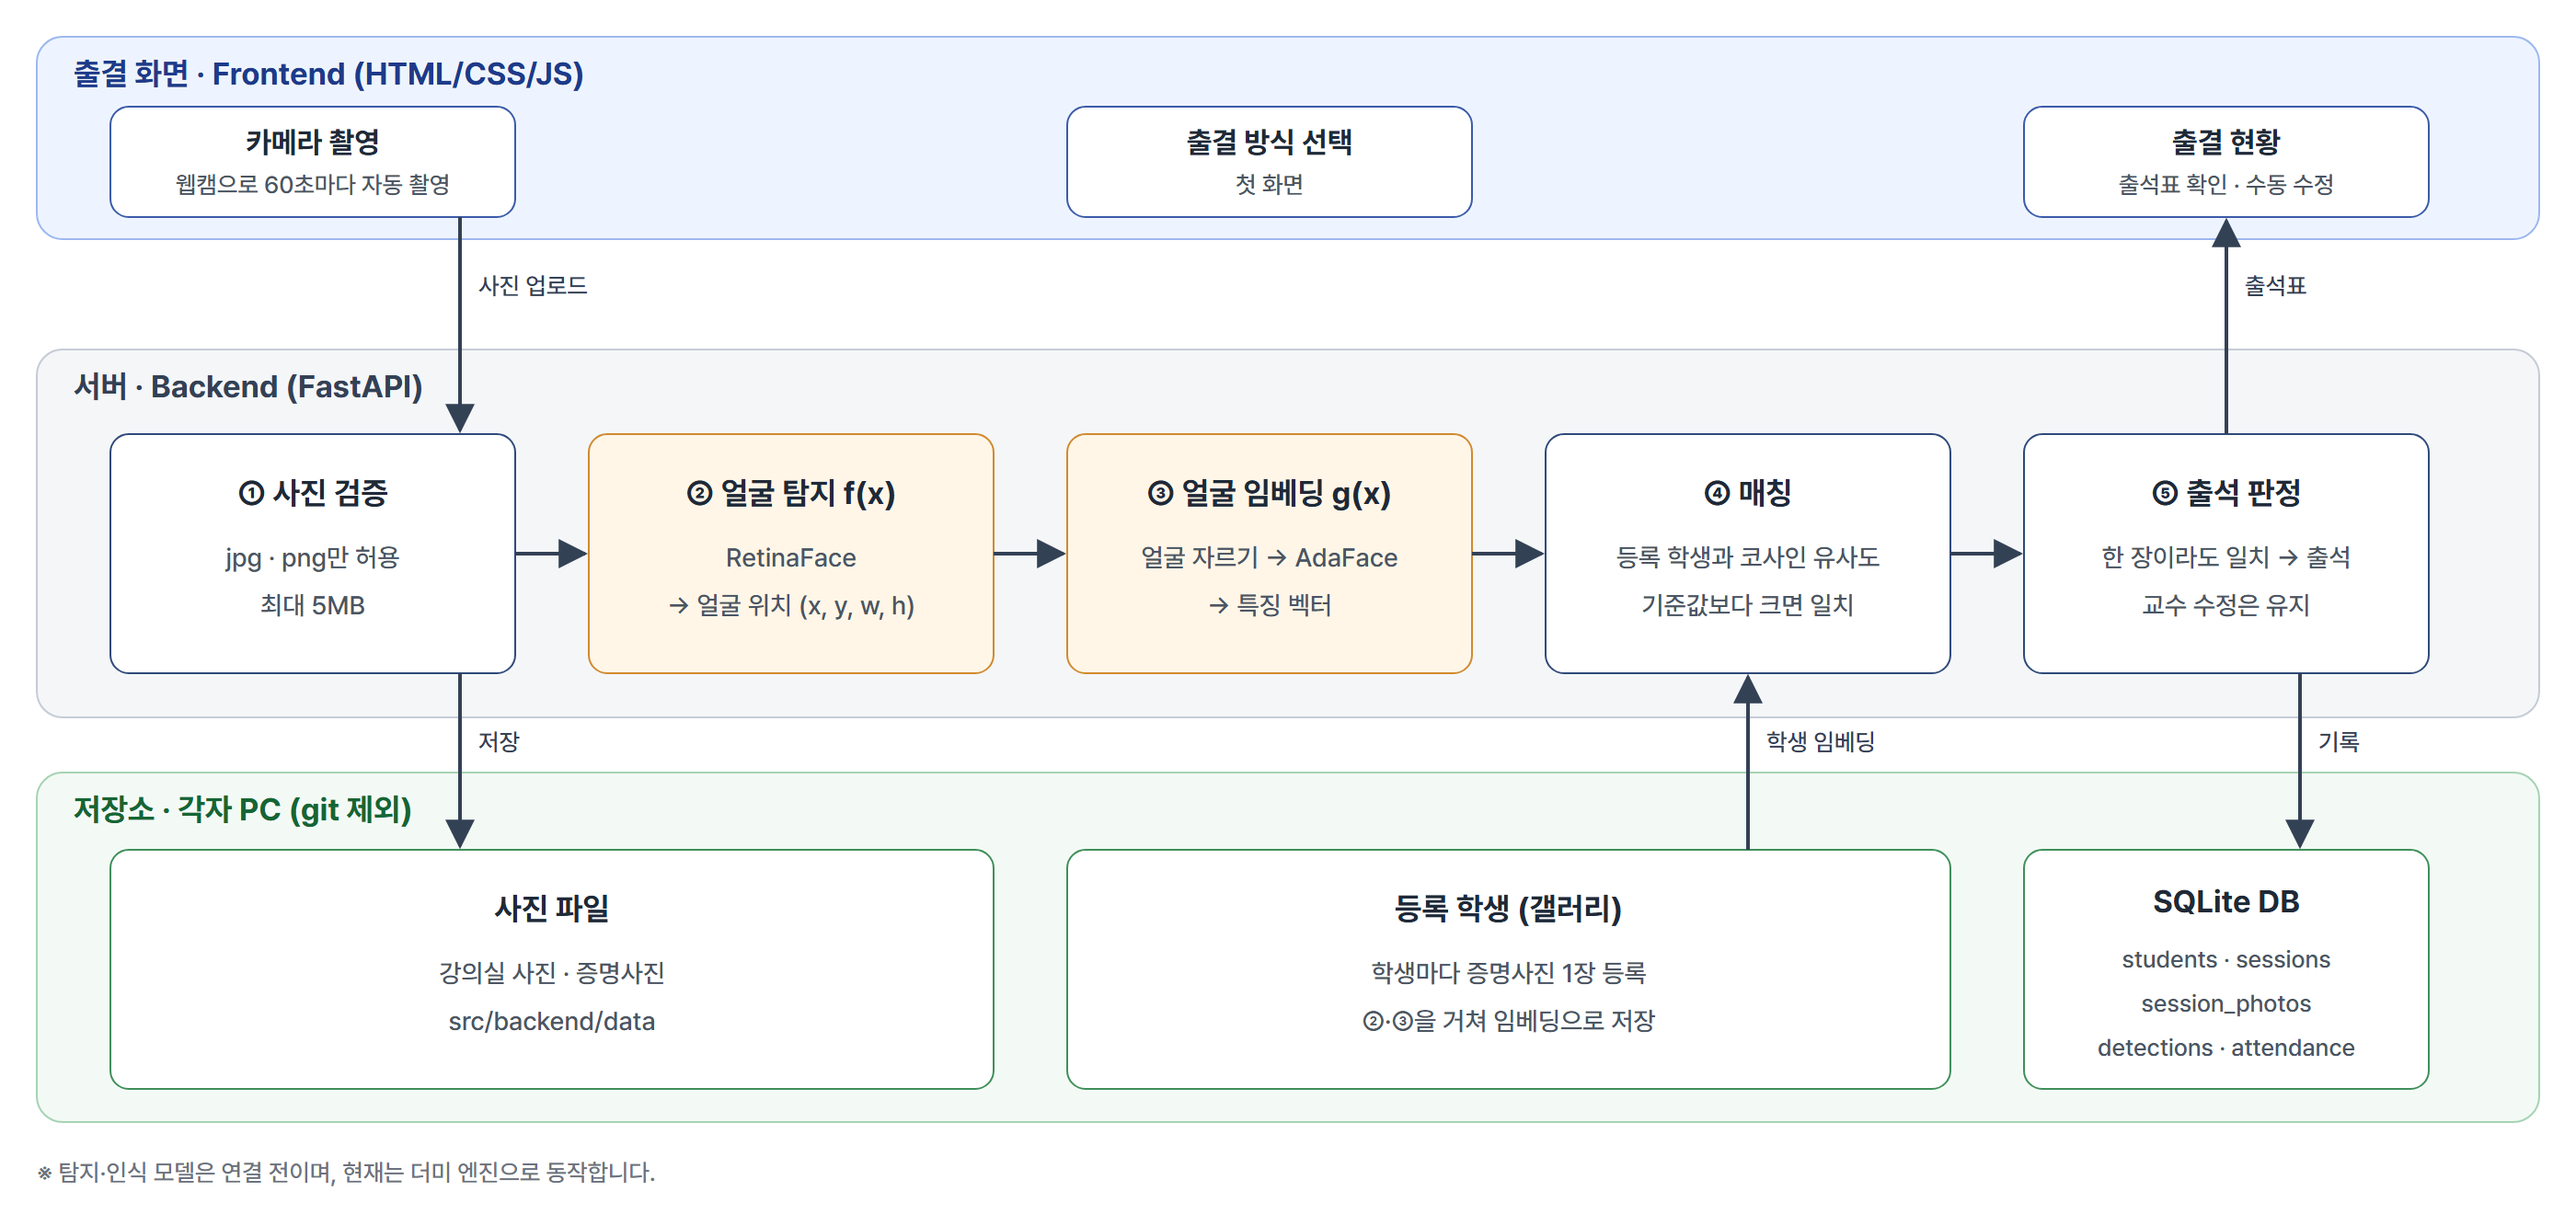
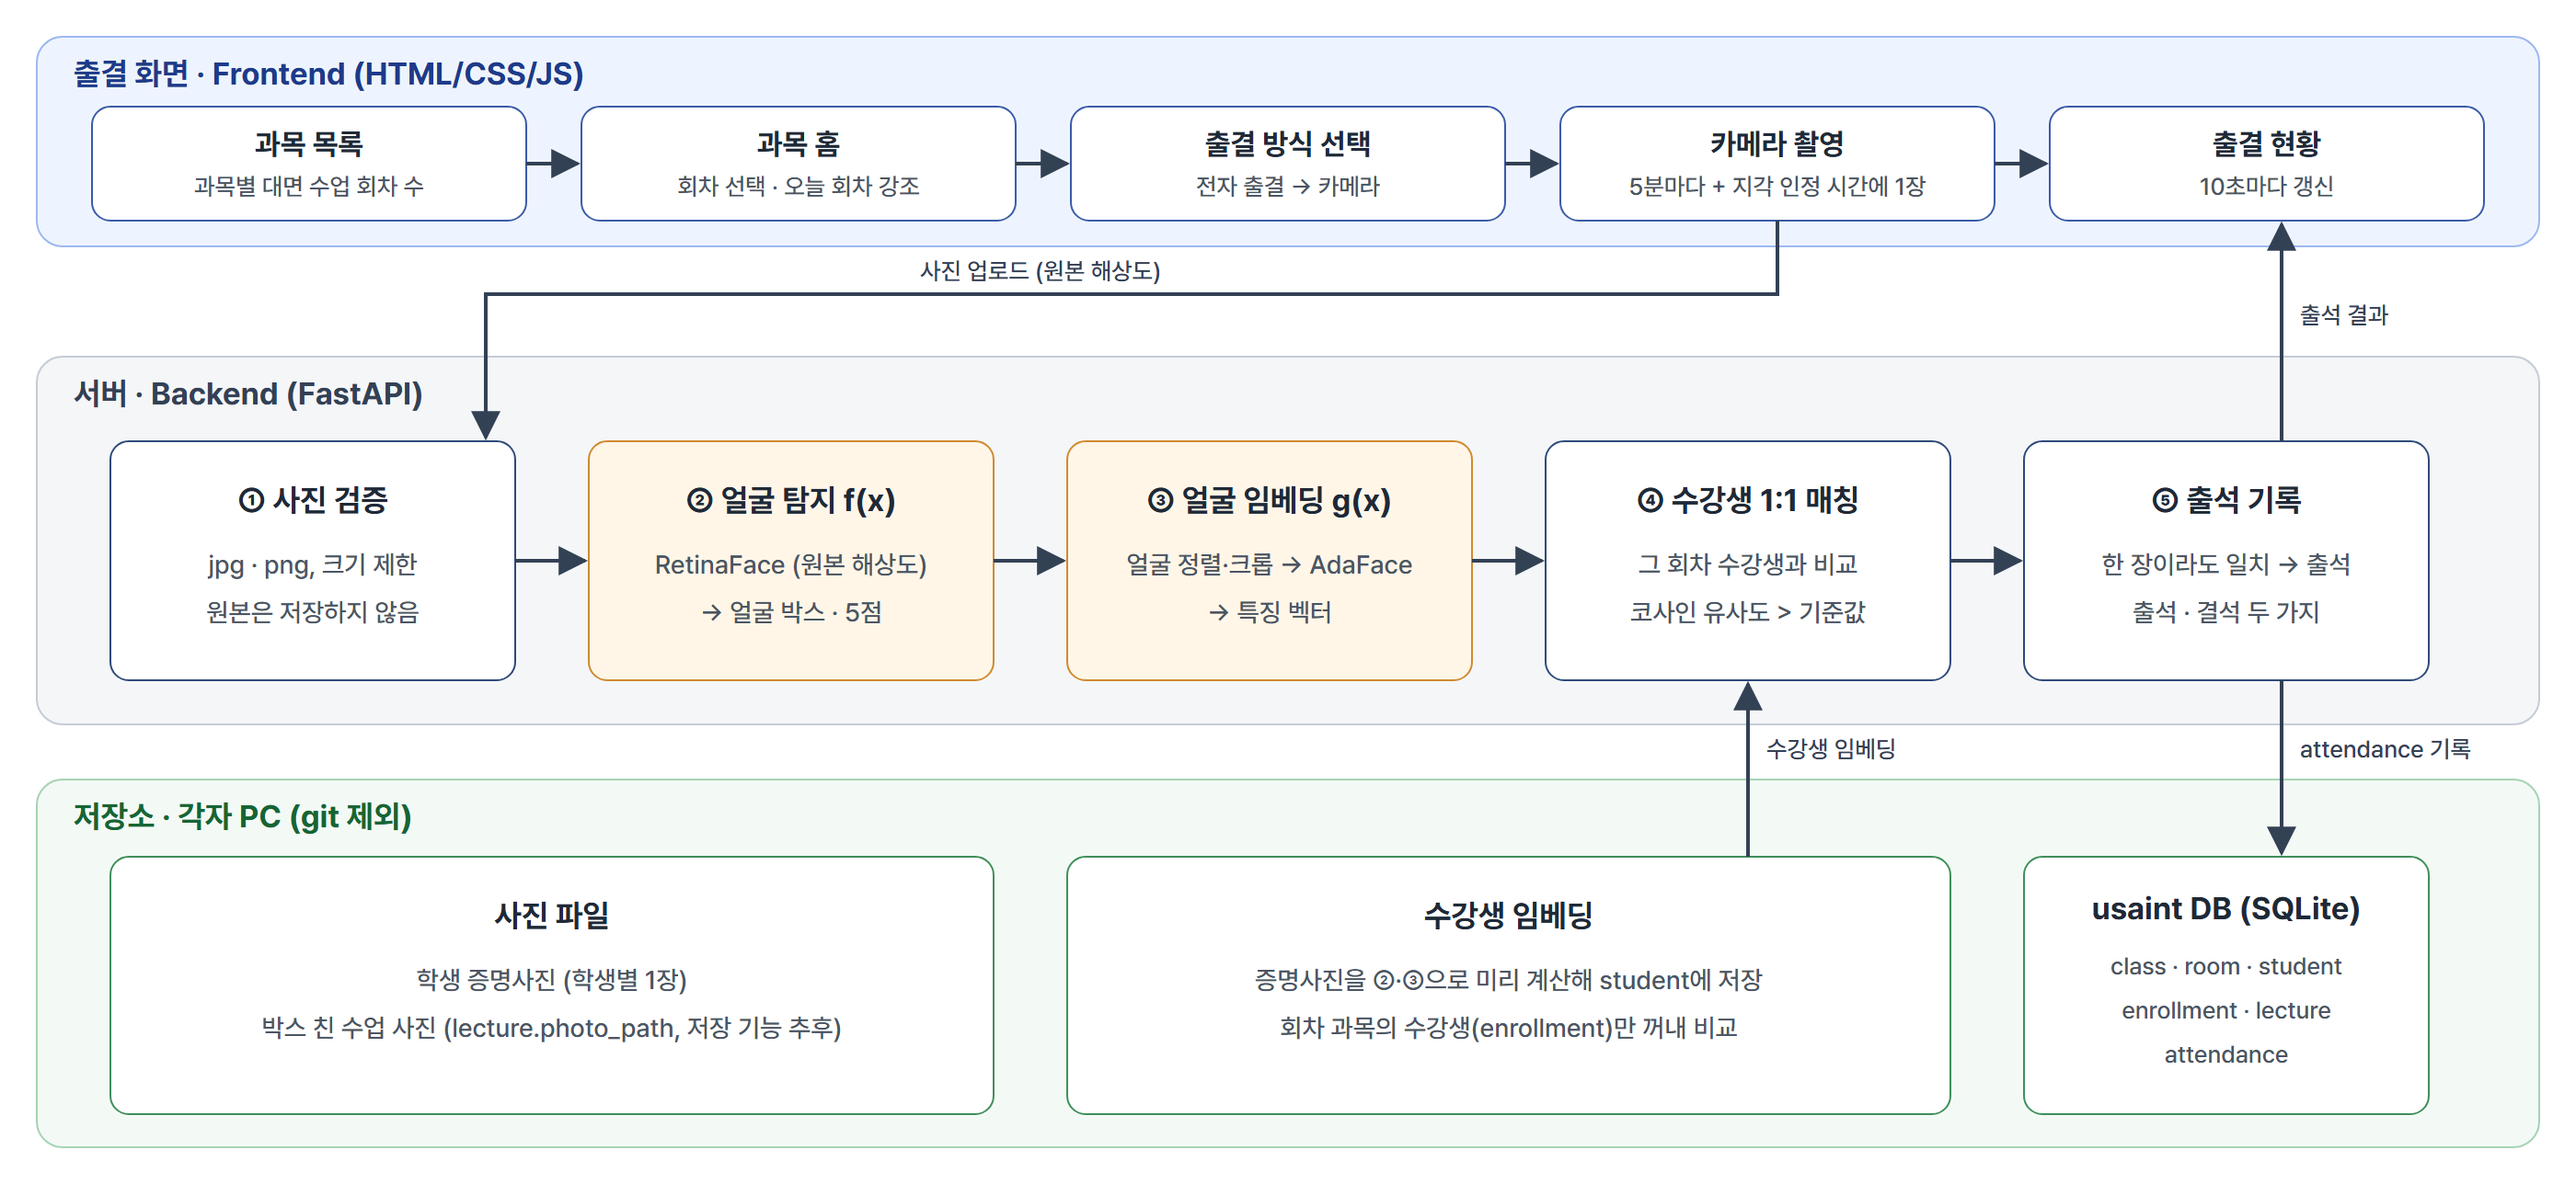
docs: README 화면 흐름·ERD·지각 인정 시간·실행 방법 갱신 (#12)
* docs(images): 아키텍처 그림 갱신, ERD 그림 추가

- 아키텍처: 과목 목록 → 과목 홈 → 출결 방식 → 카메라 → 출결 현황 흐름,
  5분 촬영 + 지각 인정 시간 촬영, 수강생 1:1 매칭, lecture.photo_path 반영
- ERD: 팀 ERD(6개 테이블)에 합의한 lecture.photo_path 추가

* docs(readme): 화면 흐름·ERD·지각 인정 시간·실행 방법 반영

- 핵심 기능: 5분 촬영, 지각 인정 시간 촬영 추가, "사진 즉시 삭제"를
  lecture.photo_path 합의(박스 친 수업 사진 보관 가능)에 맞게 수정
- 데이터베이스(ERD) 섹션 추가
- 구조 트리: docs/images, routers(courses·lectures·rooms), services,
  scripts 설명을 현재 코드 기준으로 갱신
- 실행 방법: 시드 실행 명령과 접속 주소(/app/, /docs) 추가

* docs(images): 아키텍처 그림에서 엔진 상태 주석 문구 삭제

* docs(readme): 환경 변수 예시를 .env.example과 맞춤

- USE_VERIFIED_FACES 삭제 (#9에서 설정 항목이 없어짐)
- MAX_UPLOAD_MB 5 → 10 (코드 기본값)

---------

diff --git a/README.md b/README.md
@@ -15,17 +15,26 @@
 
 | 기능명 | 설명 |
 |---|---|
-| 강의실 사진 촬영 | 강의실 카메라로 수업 중 단체 사진을 촬영 |
+| 강의실 사진 촬영 | 강의실 카메라로 수업 중 단체 사진을 5분마다 촬영 |
+| 지각 인정 시간 촬영 | 촬영 시작 후 정한 시간(1~20분)이 지나는 시각에 한 장 더 촬영해, 그때까지 들어온 학생을 확인 |
 | 얼굴 탐지 | 단체 사진에서 학생 얼굴 위치를 찾음 |
 | 얼굴 인식 | 찾은 얼굴을 수강생 명단의 등록 사진과 대조 |
 | 출석 판정 | 한 장이라도 인식되면 출석, 학생별 출석 여부 표 생성 |
 | 교수 확인 | 인식되지 않은 학생은 "확인 필요"로 표시, 교수가 최종 확정 |
-| 사진 즉시 삭제 | 판정이 끝나면 원본 사진 삭제 (현재 구현은 보관, 정책 논의 중) |
+| 사진 즉시 삭제 | 업로드한 원본 사진은 판정 후 저장하지 않음. 회차별로 얼굴에 박스를 친 수업 사진은 `lecture.photo_path`에 남길 수 있음 (저장 기능은 추후) |
 
 ---
 
 ## 시스템 아키텍처
 ![시스템 아키텍처](docs/images/github-readme_arch_preview.png)
+
+---
+
+## 데이터베이스 (ERD)
+![ERD](docs/images/erd.png)
+
+- 학사 포털(usaint)의 학생·과목·강의실·회차·수강 정보를 흉내 낸 6개 테이블입니다. 우리 시스템은 이 DB를 읽고, 출석 결과(`attendance`)만 씁니다.
+- `lecture.photo_path`: 회차별로 얼굴에 박스를 친 수업 사진의 경로입니다. 컬럼만 있고 저장 기능은 추후 작업입니다.
 
 ---
 
@@ -67,9 +76,10 @@ ssuaisw-2026-smart-attedance-system/
 │  └─workflows
 │        test.yml                     # 자동 테스트 (PR마다 pytest)
 ├─docs                                # 프로젝트 관련 문서 파일
-│     face_engine_guide.md            # 얼굴 모델 연결 가이드
+│  │  face_engine_guide.md            # 얼굴 모델 연결 가이드
+│  └─images                           # README 그림 (아키텍처, ERD)
 ├─src
-│  ├─frontend                         # 출결 화면 (HTML/CSS/JS)
+│  ├─frontend                         # 출결 화면: 과목 목록 → 과목 홈 → 출결 방식 → 카메라 → 출결 현황
 │  │  └─js                            # 화면별 스크립트, API 호출
 │  ├─backend                          # 서버, DB (FastAPI, SQLite)
 │  │  ├─engines                       # 얼굴 탐지 엔진
@@ -77,9 +87,9 @@ ssuaisw-2026-smart-attedance-system/
 │  │  │  ├─detector.py                # 검출: 박스·5점 랜드마크
 │  │  │  ├─align.py                   # 정렬·크롭 (CelebA-HQ 방식, 리사이즈 없음)
 │  │  │  └─pipeline.py                # 인식 인계 출력 (박스 좌표·정렬 이미지 리스트)
-│  │  ├─routers                       # API: 학생, 수업, 사진, 검출
-│  │  ├─services                      # 출석 계산, 얼굴 매칭, 파일 저장
-│  │  └─scripts                       # 임베딩 재계산
+│  │  ├─routers                       # API: 과목·회차 목록(courses), 회차 시작·사진·출결(lectures), 강의실(rooms)
+│  │  ├─services                      # 출석 처리, 1:1 매칭, usaint DB 조회, 업로드 검증
+│  │  └─scripts                       # 학생 임베딩 계산(compute_embeddings), 예시 DB 생성(seed_usaint)
 └─tests                               # 백엔드 테스트 (pytest)
 ```
 ---
@@ -120,8 +130,21 @@ src/backend/engines/retinaface/weight/Resnet50_Final.pth
 ## 실행 방법 (Usage)
 
 ```bash
+# 1) 예시 데이터 넣기 (usaint.db 를 새로 만듦, 기존 데이터 삭제. "오늘" 회차는 실행한 날짜 기준)
+cd src
+python -m backend.scripts.seed_usaint
+cd ..
+
+# 2) 서버 실행
 python main.py
 ```
+
+| 주소 | 내용 |
+|---|---|
+| http://127.0.0.1:8000/app/ | 출결 화면 (첫 화면: 과목 목록) |
+| http://127.0.0.1:8000/docs | API 문서 (Swagger UI) |
+
+자세한 실행 순서와 예시 데이터는 [src/backend/README.md](src/backend/README.md)를 참고하세요.
 
 ---
 
@@ -145,8 +168,7 @@ DATA_DIR=src/backend/data
 CORS_ORIGINS=http://127.0.0.1:5500,http://localhost:5500
 FACE_ENGINE=dummy
 THRESHOLD=0.5
-USE_VERIFIED_FACES=false
-MAX_UPLOAD_MB=5
+MAX_UPLOAD_MB=10
 LOG_LEVEL=INFO
 ```
 
